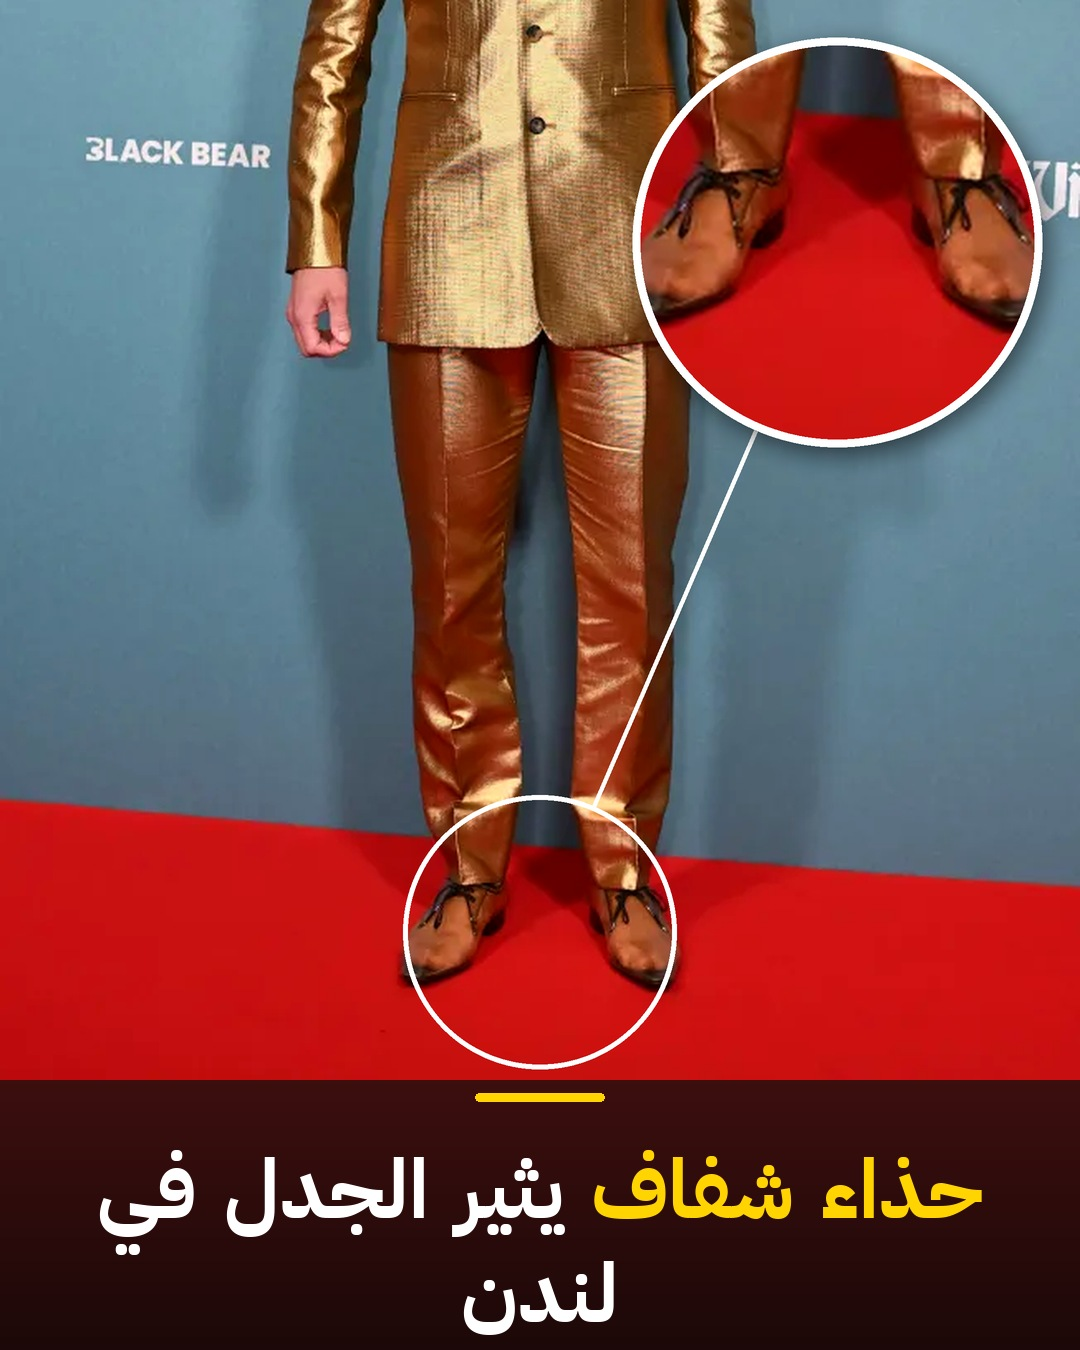
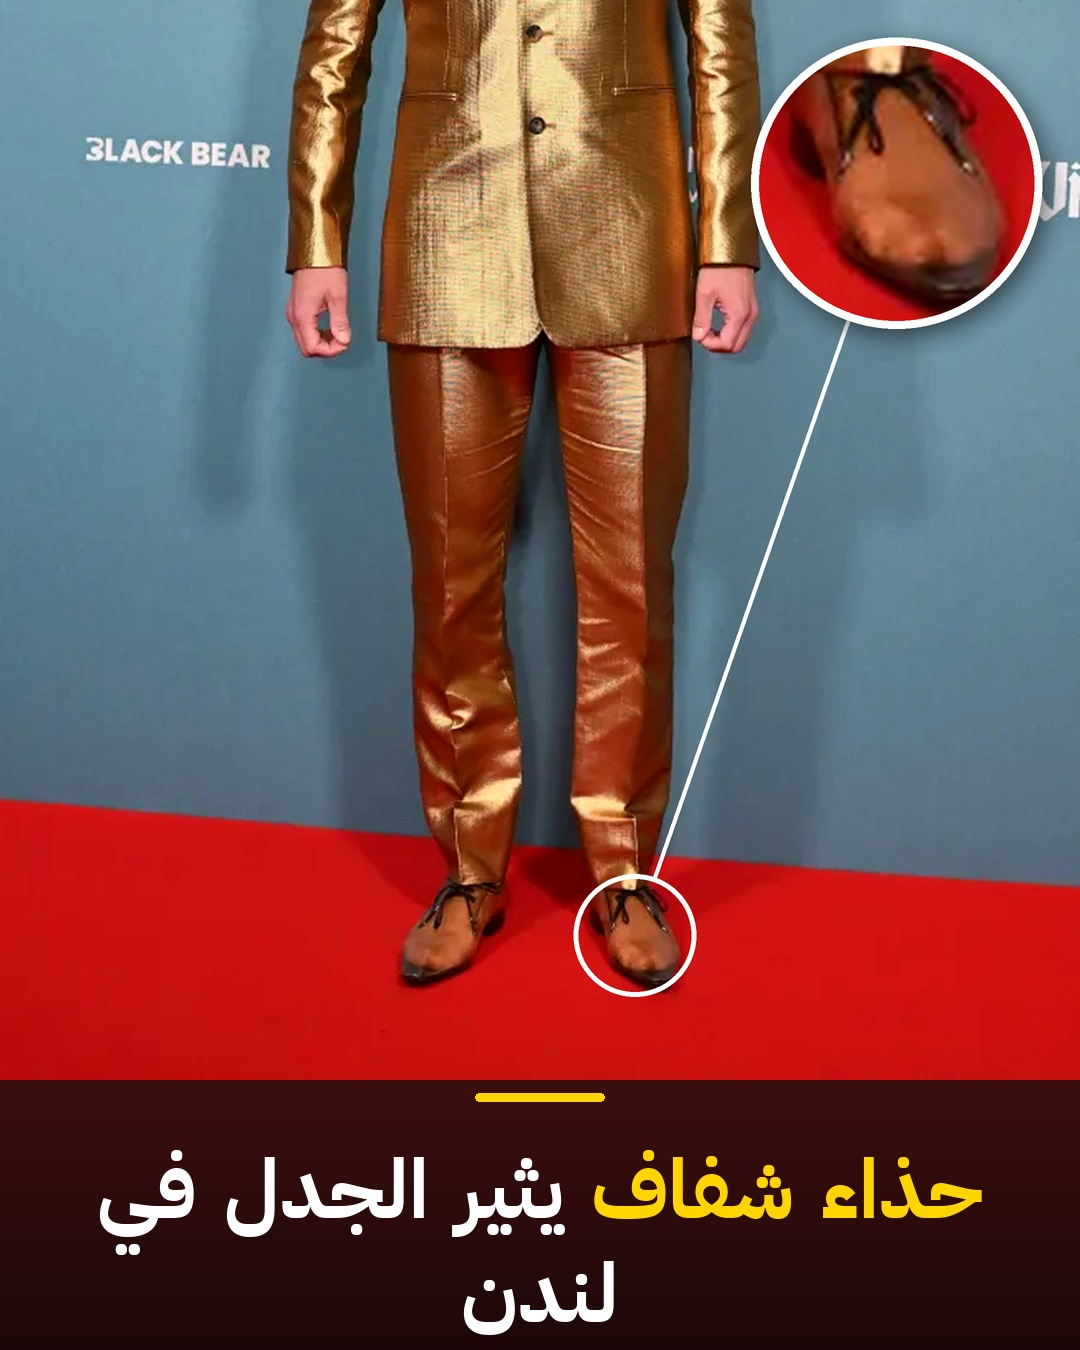
Generate article content

diff --git a/output/b6835ff19ba6/rewritten_article.md b/output/b6835ff19ba6/rewritten_article.md
@@ -1,17 +1,19 @@
-# حذاء ألكسندر سكارسجارد الشفاف في لندن يثير جدل الموضة
+# حذاء ألكسندر سكارسجارد الشفاف يثير الجدل في لندن
 
-تخيّلوا أن تسيروا على السجادة الحمراء بإطلالة كاملة باللون الذهبي ودون قميص، لكن الجميع لا يتحدث إلا عن قدميك! هذا بالضبط ما حدث مع النجم ألكسندر سكارسجارد صاحب الـ 50 عامًا. قرأت الخبر واستوقفتني هذه الحالة الغريبة من التفاعل. الرجل ظهر في العرض الأول لفيلمه الجديد ببدلة ذهبية مكشوفة الصدر من دار سان لوران، لكن الحذاء البلاستيكي الشفاف كليًا من الدار نفسها هو من سرق الأضواء وقسم الجمهور.
+تخيّلوا أن تمشوا على السجادة الحمراء ببدلة ذهبية لامعة وبدون قميص، ثم يترك الجميع البدلة وينشغلون بقدميك! هذا بالضبط ما حدث مع النجم ألكسندر سكارسجارد في العرض الأول لفيلمه الجديد. قرأت الخبر وصدمت من جراءة الإطلالة!
 
-## إطلالة غير مألوفة
-الصراحة، تصميم الحذاء غير تقليدي إطلاقًا. بحسب التقرير، هذا الحذاء البلاستيكي الشفاف ظهر لأول مرة على منصات العروض في يونيو الماضي، وكان سكارسجارد أول رجل يملك الجرأة لارتدائه ويكشف عن أصابع قدميه أمام العدسات. هل تعتقدون أن الأزياء الجريئة تجاوزت الحدود؟ ردود الأفعال تباينت بشدة؛ فبعض المتابعين أشادوا بصلابته وقدرته على ارتداء أي شيء، بينما اعتبر آخرون ما فعله أمرًا غير معقول وتساءلوا عن صوابه العقلي. حتى أن نجمة تلفزيون الواقع السابقة بيج دي سوربو علّقت بوضوح وقالت إن علينا وضع حد لهذه الممارسات.
+## ذهب بلا قميص وحذاء شفاف
 
-![حذاء ألكسندر سكارسجارد الشفاف في لندن يثير جدل الموضة](article_middle.jpg)
+النجم البالغ من العمر خمسين عامًا حضر العرض الأول لفيلمه ويكر ضمن مهرجان لندن السينمائي التابع لمعهد الفيلم البريطاني يوم الخميس. ظهر ببدلة ذهبية بالكامل من تصميم سان لوران دون أن يرتدي قميصًا تحتها. لكن المفاجأة الحقيقية لم تكن في ذهبية البدلة، بل في حذائه البلاستيكي الشفاف تمامًا من الدار نفسها. هذا الحذاء ظهر لأول مرة على منصات العرض في يونيو الماضي، وكان سكارسجارد أول رجل يملك الشجاعة ليكشف عن أصابع قدميه به بهذه الطريقة. يا جماعة، المظهر كان غريبًا ومفاجئًا بكل المقاييس!
 
-## مخاوف التعرق والروائح
-الموضوع لم يتوقف عند الشكل الفني فقط، بل دخل في تفاصيل عملية جيدة. كيف يمكن لأحد أن يرتدي حذاءً بلاستيكيًا مغلقًا في مناسبة رسمية؟ مش معقول حجم التعليقات التي ركزت على الحرارة والتعرق! كما ورد في التقرير، أشار بعض المتابعين عبر الإنترنت إلى احتمال تكثف البخار والتعرق داخل الحذاء المغلق، حتى أن أحدهم سخر قائلًا إن أقدامه كانت ستصنع بخارًا كثيفًا يغطي الأقدام تمامًا، بينما رجح آخر أن تتسبب الحرارة في روائح كريهة داخل البلاستيك. يا جماعة، على الرغم من أن الجو في لندن كان معتدلًا، إلا أن مخاوف الجمهور كانت في محلها بخصوص الخامات البلاستيكية، خاصة عند تذكر موقف سفير العلامة كونور ستوري الذي ارتدى معطفًا وبوتًا من الفينيل فوق الركبة في أشد أيام باريس حرارة على الإطلاق.
+![حذاء ألكسندر سكارسجارد الشفاف يثير الجدل في لندن](article_middle.jpg)
 
-## تاريخ من الجرأة
-المهم، هذه ليست المرة الأولى التي يثير فيها الممثل السويدي الجدل بخياراته. بحسب ما نُشر، سبق له ارتداء بنطال جلدي وشورتات قصيرة وقمصان براقة مطرزة في فيلمه بليون، وفي عام 2025 ارتدى حذاءً جلديًا يصل لأعلى الركبة من نفس الدار. يبدو أن الرجل يتعمد أخذ ردود أفعال الجمهور. وفي فيلمه الجديد ويكر، الذي ينطلق في دور السينما يوم 23 أكتوبر، يلعب دور رجل ساحري مصنوع من القش يتزوج من امرأة تعمل في الصيد تؤدي دورها أوليفيا كولمان.
+## إشادات وانتقادات ومخاوف من العرق
 
-## رأي شخصي
-رأيي الشخصي أن الأزياء مساحة للتعبير والتجربة، وما فعله سكارسجارد يعكس رغبة واضحة في الخروج عن المألوف وإثارة النقاش، حتى لو بدت الخيارات غريبة لبعضنا. وش رايكم أنتم، هل ترون ارتدائه للحذاء الشفاف جرأة وثقة أم مجرد لفت للأنظار؟
+تفاعل الجمهور على الإنترنت انقسم بشدة حول هالسالفة. بعض المتابعين أشادوا بشجاعته وأناقته، معتبرين أنه يستطيع ارتداء أي شيء ويبدو رائعًا. في المقابل، عبر آخرون عن استيائهم الشديد؛ حتى إن نجمة تلفزيون الواقع السابقة بيج ديسوربو علقت قائلة إنه يجب وضع حد لهذه التقليعات. وكتب آخرون أن ألكسندر يتعمد استفزاز الجمهور وأخذ ردود أفعالهم. ألم تتساءلوا عن شعور الانزعاج من العرق داخل البلاستيك؟ بصراحة، أثار الحذاء قلق المتابعين من تجمع التكثيف والحرارة والروائح الكريهة بين القدم والبلاستيك. شو تتوقعون يحدث للقدمين في يوم حار داخل حذاء من هذا النوع؟
+
+## تاريخ حافل بالخيارات الجريئة
+
+هذه ليست المرة الأولى التي يختبر فيها الممثل السويدي حدود الموضة الغريبة. ففي فيلمه بيليون ارتدى بنطالًا جلديًا وسراويل قصيرة وقمصانًا براقة. وفي عام ألفين وخمسة وعشرين كان واحدًا من عدة نجوم في هوليوود ارتدوا أحذية جلدية تصل إلى الفخذين من سان لوران. مش معقول كمية المخاطرة التجريبية في أزيائه! فيلمه الجديد ويكر يجمعه مع أوليفيا كولمان، حيث يؤدي دور رجل ساحري مصنوع من القش يتزوج من امرأة تعمل بالصيد، وسيطرح الفيلم في دور السينما في الثالث والعشرين من أكتوبر.
+
+رأيي الشخصي أن ألكسندر سكارسجارد يعرف تمامًا كيف يجذب الأنظار ويصنع الحدث، وحذاؤه الشفاف لم يكن مجرد خيار موضة بل حركة ذكية لإثارة الجدل حوله وحول الفيلم. وش رايكم أنتم في تصرف الممثل وحذائه الشفاف؟
